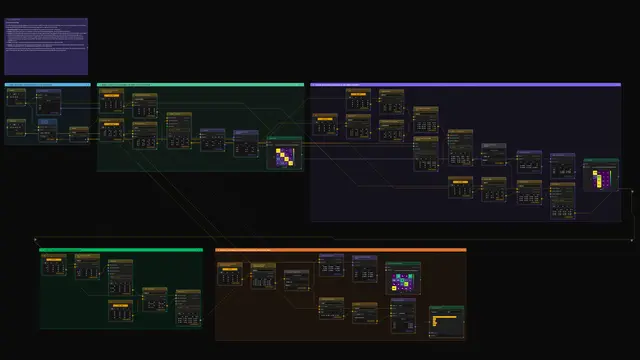
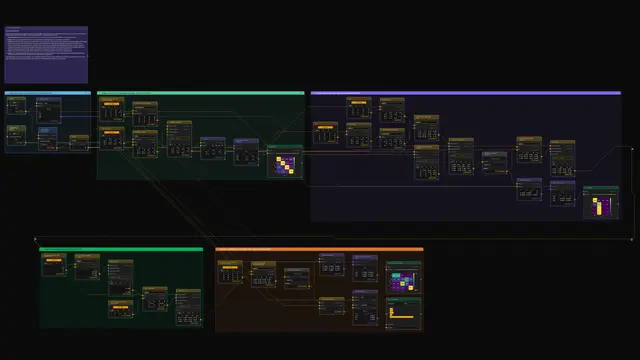
A tiny transformer: every card earns its place
A card-by-card pass. The vocabulary is alphabetical, so XMATCH's lookup
reads 5, 1, 4, 3 instead of echoing the prompt's 1, 2, 3, 4; the
embedding rows and unembedding columns follow it. W_V and the Values card
are gone: W_V was the identity, so the words are mixed directly and the
note says what W_V would do. The MLP is its honest size, one hidden unit
(W_1 4×1, W_2 1×4), where three of four units were all zeros. INDEX at
row Length takes the last word's row in one card, where TAKE and TOROW
took two. Every answer is the same.

Claude-Session: https://claude.ai/code/session_01BJp3bVxkbipBMgN4iahjkg

diff --git a/docs/dev-notes.md b/docs/dev-notes.md
@@ -95,10 +95,11 @@ specific item.
   frame holds the truth, and a total over the column says so.
 - **A tiny transformer, a new example** (`seedGraphs/tiny-transformer.json`, Worked examples): one layer and one head
   in five stages, each a group ending in its picture, built from table cards with no Expressions: XMATCH finds
-  each typed word in the vocabulary and CHOOSEROWS picks its embedding row, so editing the prompt moves every answer;
+  each typed word in the (alphabetical) vocabulary and CHOOSEROWS picks its embedding row, so editing the prompt moves every answer;
   MMULT, TRANSPOSE, MAP (`value + value2`, `MAX(0, value)`) and a MAKEARRAY mask do the rest, sized by a COUNT of the
   prompt. Both softmaxes are one Composite: MAP `EXP(value)`, a BYROW of `1 / SUM(values)`, TOROW, DIAGONAL, and MMULT of
-  that diagonal by the table, which scales each row to sum to 1 (MAP wants equal shapes, so it can't spread a column). Labeled
+  that diagonal by the table, which scales each row to sum to 1 (MAP wants equal shapes, so it can't spread a column). Every card earns its place (2026-11-10 pass): no identity W_V (the values are X), a one-unit MLP
+  (W_1 4×1, W_2 1×4), INDEX at row Length for the last word's row. Labeled
   heatmaps show the embeddings, attention and predictions, and a bar chart the last word's prediction. Two rows, H on
   three rotated Conduits. Building it found Frame from Lists failing on a table through
   TAKE's untyped output, `run-graph` and `seedsCompute.test.ts` never hydrating a Composite (both do now), and the grounding listing TOROW under TableSelect.
